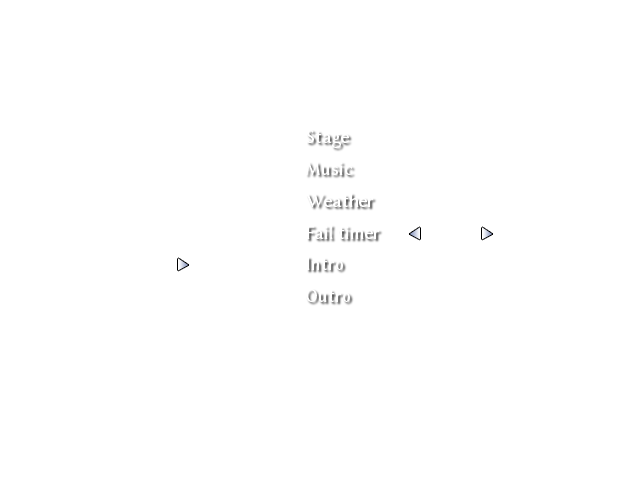
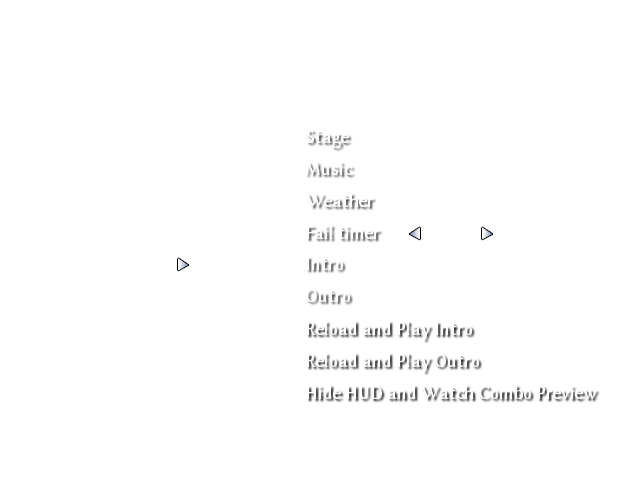
Added callbacks for every tickable element

Changed region(s): [[0.4688, 0.6562, 0.75, 0.7812], [0.4688, 0.8125, 0.9375, 0.8438]]

diff --git a/modules/TrialMode/TrialEditor/ComboTrialEditor.cpp b/modules/TrialMode/TrialEditor/ComboTrialEditor.cpp
@@ -147,6 +147,30 @@ ComboTrialEditor::ComboTrialEditor(const char *folder, const char *path, SokuLib
 		this->_loadExpected(getField<std::string>(json, "", &nlohmann::json::is_string, "expected"));
 	} catch (...) {}
 
+	this->_comboSprite.texture.createFromText(this->_transformComboToString().c_str(), defaultFont12, {250, 30});
+	this->_comboSprite.setPosition({388, 353});
+	this->_comboSprite.setSize(this->_comboSprite.texture.getSize());
+	this->_comboSprite.rect.left = 0;
+	this->_comboSprite.rect.top = 0;
+	this->_comboSprite.rect.width = this->_comboSprite.texture.getSize().x;
+	this->_comboSprite.rect.height = this->_comboSprite.texture.getSize().y;
+
+	this->_introSprite.texture.createFromText(this->_introRelPath.c_str(), defaultFont12, {250, 30});
+	this->_introSprite.setPosition({379, 260});
+	this->_introSprite.setSize(this->_introSprite.texture.getSize());
+	this->_introSprite.rect.left = 0;
+	this->_introSprite.rect.top = 0;
+	this->_introSprite.rect.width = this->_introSprite.texture.getSize().x;
+	this->_introSprite.rect.height = this->_introSprite.texture.getSize().y;
+
+	this->_outroSprite.texture.createFromText(this->_outroRelPath.c_str(), defaultFont12, {250, 30});
+	this->_outroSprite.setPosition({379, 294});
+	this->_outroSprite.setSize(this->_outroSprite.texture.getSize());
+	this->_outroSprite.rect.left = 0;
+	this->_outroSprite.rect.top = 0;
+	this->_outroSprite.rect.width = this->_outroSprite.texture.getSize().x;
+	this->_outroSprite.rect.height = this->_outroSprite.texture.getSize().y;
+
 	this->_attemptText.texture.createFromText("Editor mode", defaultFont16, {306, 124});
 	this->_attemptText.setPosition({4, 58});
 	this->_attemptText.setSize(this->_attemptText.texture.getSize());
@@ -328,17 +352,9 @@ disableLimit:
 			battleMgr.rightCharacterManager.objectBase.speed.y = 0;
 		}
 
-		if (battleMgr.leftCharacterManager.keyCombination._6314a)
-			this->_outroRequ++;
-		else
-			this->_outroRequ = 0;
-		if (battleMgr.leftCharacterManager.keyCombination._22a)
-			this->_introRequ++;
-		else
-			this->_introRequ = 0;
-
 		if (!this->_playingIntro && this->_outroRequ == 1) {
 			try {
+				this->_outroRequ = 0;
 				this->_initAnimations(false, true);
 				this->_outroPlayed = false;
 				this->_finished = true;
@@ -350,10 +366,9 @@ disableLimit:
 					MB_ICONERROR
 				);
 			}
-		} else if (battleMgr.leftCharacterManager.keyCombination._214a && !this->_playingIntro) {
-			this->_playComboAfterIntro = true;
 		} else if (!this->_playingIntro && this->_introRequ == 1) {
 			try {
+				this->_introRequ = 0;
 				ComboTrialEditor::_initVanillaGame();
 				this->_initAnimations(true, false);
 				this->_introPlayed = false;
@@ -647,6 +662,8 @@ void ComboTrialEditor::editPlayerInputs(SokuLib::KeyInput &originalInputs)
 		if (originalInputs.a == 1) {
 			this->_openPause();
 			this->_changingDummyPos = false;
+			this->_jump &= this->_dummyStartPos.y == 0;
+			this->_crouching &= this->_dummyStartPos.y == 0;
 			SokuLib::playSEWaveBuffer(0x28);
 			originalInputs.a = 0;
 		}
@@ -911,6 +928,7 @@ int ComboTrialEditor::pauseOnRender() const
 	this->_trialEditorMockup.draw();
 	if (this->_selectedSubcategory)
 		(&this->_trialEditorMockup)[this->_selectedSubcategory].draw();
+	(this->*ComboTrialEditor::renderCallbacks[this->_selectedSubcategory])();
 	if (this->_selectingCharacters)
 		this->_selectingCharacterRender();
 	return true;
@@ -950,12 +968,22 @@ const std::vector<bool (ComboTrialEditor::*)()> ComboTrialEditor::callbacks[] = 
 		&ComboTrialEditor::setMusic,    //Music
 		&ComboTrialEditor::setWeather,  //Weather
 		&ComboTrialEditor::setFailTimer,//Fail timer
-		&ComboTrialEditor::setOutro,    //Intro
-		&ComboTrialEditor::setIntro     //Outro
+		&ComboTrialEditor::setIntro,    //Intro
+		&ComboTrialEditor::setOutro,    //Outro
+		&ComboTrialEditor::playIntro,   //Play intro
+		&ComboTrialEditor::playOutro,   //Play outro
+		&ComboTrialEditor::playPreview  //Play preview
 	},
 	{&ComboTrialEditor::saveReturnToCharSelect},//Save
 	{&ComboTrialEditor::returnToCharSelect},
 	{&ComboTrialEditor::returnToTitleScreen}
+};
+void (ComboTrialEditor::* const ComboTrialEditor::renderCallbacks[])() const = {
+	&ComboTrialEditor::noRender,
+	&ComboTrialEditor::playerRender,
+	&ComboTrialEditor::dummyRender,
+	&ComboTrialEditor::systemRender,
+	&ComboTrialEditor::miscRender
 };
 
 bool ComboTrialEditor::notImplemented()
@@ -1006,7 +1034,9 @@ bool ComboTrialEditor::setPlayerHand()
 
 bool ComboTrialEditor::setPlayerWeather()
 {
-	return notImplemented();
+	this->_leftWeather = !this->_leftWeather;
+	SokuLib::playSEWaveBuffer(0x28);
+	return true;
 }
 
 bool ComboTrialEditor::setPlayerDolls()
@@ -1039,17 +1069,29 @@ bool ComboTrialEditor::setDummyDeck()
 
 bool ComboTrialEditor::setDummyCrouch()
 {
-	return notImplemented();
+	if (this->_dummyStartPos.y)
+		return SokuLib::playSEWaveBuffer(0x29), false;
+	this->_crouching = !this->_crouching;
+	this->_jump = false;
+	SokuLib::playSEWaveBuffer(0x28);
+	return true;
 }
 
 bool ComboTrialEditor::setDummyJump()
 {
-	return notImplemented();
+	if (this->_dummyStartPos.y)
+		return SokuLib::playSEWaveBuffer(0x29), false;
+	this->_jump = !this->_jump;
+	this->_crouching = false;
+	SokuLib::playSEWaveBuffer(0x28);
+	return true;
 }
 
 bool ComboTrialEditor::setDummyWeather()
 {
-	return notImplemented();
+	this->_rightWeather = !this->_rightWeather;
+	SokuLib::playSEWaveBuffer(0x28);
+	return true;
 }
 
 bool ComboTrialEditor::setCRankRequ()
@@ -1074,12 +1116,20 @@ bool ComboTrialEditor::setSRankRequ()
 
 bool ComboTrialEditor::setCounterHit()
 {
-	return notImplemented();
+	this->_counterHit = !this->_counterHit;
+	if (this->_counterHit)
+		applyCounterHitOnlyPatch();
+	else
+		removeCounterHitOnlyPatch();
+	SokuLib::playSEWaveBuffer(0x28);
+	return true;
 }
 
 bool ComboTrialEditor::setLimitDisabled()
 {
-	return notImplemented();
+	this->_disableLimit = !this->_disableLimit;
+	SokuLib::playSEWaveBuffer(0x28);
+	return true;
 }
 
 bool ComboTrialEditor::setCardCosts()
@@ -1120,6 +1170,33 @@ bool ComboTrialEditor::setOutro()
 bool ComboTrialEditor::setIntro()
 {
 	return notImplemented();
+}
+
+bool ComboTrialEditor::playIntro()
+{
+	this->_introRequ++;
+	this->_menuCursorPos = 0;
+	this->_selectedSubcategory = 0;
+	SokuLib::playSEWaveBuffer(0x28);
+	return false;
+}
+
+bool ComboTrialEditor::playOutro()
+{
+	this->_outroRequ++;
+	this->_menuCursorPos = 0;
+	this->_selectedSubcategory = 0;
+	SokuLib::playSEWaveBuffer(0x28);
+	return false;
+}
+
+bool ComboTrialEditor::playPreview()
+{
+	this->_playComboAfterIntro = true;
+	this->_menuCursorPos = 0;
+	this->_selectedSubcategory = 0;
+	SokuLib::playSEWaveBuffer(0x28);
+	return false;
 }
 
 bool ComboTrialEditor::saveReturnToCharSelect()
@@ -1212,6 +1289,8 @@ bool ComboTrialEditor::save() const
 		if (this->_crouching)
 			json["dummy"]["crouch"]  = this->_crouching;
 
+		if (this->_counterHit)
+			json["counter_hit"] = this->_counterHit;
 		if (this->_uniformCardCost)
 			json["uniform_card_cost"] = this->_uniformCardCost;
 		if (this->_disableLimit)
@@ -1421,6 +1500,53 @@ void ComboTrialEditor::_selectingCharacterRender() const
 void ComboTrialEditor::_openPause() const
 {
 	SokuLib::activateMenu(((void *(__thiscall *)(void *, SokuLib::BattleManager &))0x444F40)(SokuLib::NewFct(0x78), SokuLib::getBattleMgr()));
+}
+
+void ComboTrialEditor::noRender() const
+{
+}
+
+void ComboTrialEditor::playerRender() const
+{
+	if (this->_leftWeather) {
+		tickSprite.setPosition({304, 287});
+		tickSprite.draw();
+	}
+}
+
+void ComboTrialEditor::dummyRender() const
+{
+	if (this->_crouching) {
+		tickSprite.setPosition({304, 222});
+		tickSprite.draw();
+	}
+	if (this->_jump) {
+		tickSprite.setPosition({304, 254});
+		tickSprite.draw();
+	}
+	if (this->_rightWeather) {
+		tickSprite.setPosition({304, 286});
+		tickSprite.draw();
+	}
+}
+
+void ComboTrialEditor::systemRender() const
+{
+	if (this->_counterHit) {
+		tickSprite.setPosition({303, 254});
+		tickSprite.draw();
+	}
+	if (this->_disableLimit) {
+		tickSprite.setPosition({303, 286});
+		tickSprite.draw();
+	}
+	this->_comboSprite.draw();
+}
+
+void ComboTrialEditor::miscRender() const
+{
+	this->_introSprite.draw();
+	this->_outroSprite.draw();
 }
 
 void ComboTrialEditor::SpecialAction::parse()

diff --git a/modules/TrialMode/TrialEditor/ComboTrialEditor.hpp b/modules/TrialMode/TrialEditor/ComboTrialEditor.hpp
@@ -91,6 +91,9 @@ private:
 
 	//Render
 	SokuLib::DrawUtils::Sprite _pause;
+	SokuLib::DrawUtils::Sprite _comboSprite;
+	SokuLib::DrawUtils::Sprite _introSprite;
+	SokuLib::DrawUtils::Sprite _outroSprite;
 	SokuLib::DrawUtils::Sprite _trialEditorMockup;
 	SokuLib::DrawUtils::Sprite _trialEditorPlayer;
 	SokuLib::DrawUtils::Sprite _trialEditorDummy;
@@ -151,7 +154,17 @@ private:
 	bool setOutro();
 	bool setIntro();
 	bool saveReturnToCharSelect();
+	bool playIntro();
+	bool playOutro();
+	bool playPreview();
 	static const std::vector<bool (ComboTrialEditor::*)()> callbacks[];
+
+	void noRender() const;
+	void playerRender() const;
+	void dummyRender() const;
+	void systemRender() const;
+	void miscRender() const;
+	static void (ComboTrialEditor::* const renderCallbacks[])() const;
 
 	void _playIntro();
 	void _initGameStart();

diff --git a/modules/TrialMode/TrialEditor/TrialEditor.cpp b/modules/TrialMode/TrialEditor/TrialEditor.cpp
@@ -64,7 +64,7 @@ TrialEditor::TrialEditor(const char *folder, const nlohmann::json &json)
 	for (auto pos = this->_music.find("{{pack_path}}"); pos != std::string::npos; pos = this->_music.find("{{pack_path}}"))
 		this->_music.replace(pos, strlen("{{pack_path}}"), folder);
 	if (json.contains("counter_hit") && json["counter_hit"].is_boolean() && json["counter_hit"].get<bool>())
-		applyCounterHitOnlyPatch();
+		this->_counterHit = true, applyCounterHitOnlyPatch();
 	if (json.contains("music_loop_start") && json["music_loop_start"].is_number())
 		this->_loopStart = json["music_loop_start"];
 	if (json.contains("music_loop_end") && json["music_loop_end"].is_number())

diff --git a/modules/TrialMode/TrialEditor/TrialEditor.hpp b/modules/TrialMode/TrialEditor/TrialEditor.hpp
@@ -33,6 +33,7 @@ protected:
 	std::unique_ptr<BattleAnimation> _intro;
 	std::unique_ptr<BattleAnimation> _outro;
 	bool _introPlayed = false;
+	bool _counterHit = false;
 	bool _outroPlayed = false;
 
 	void _introOnRender() const;
